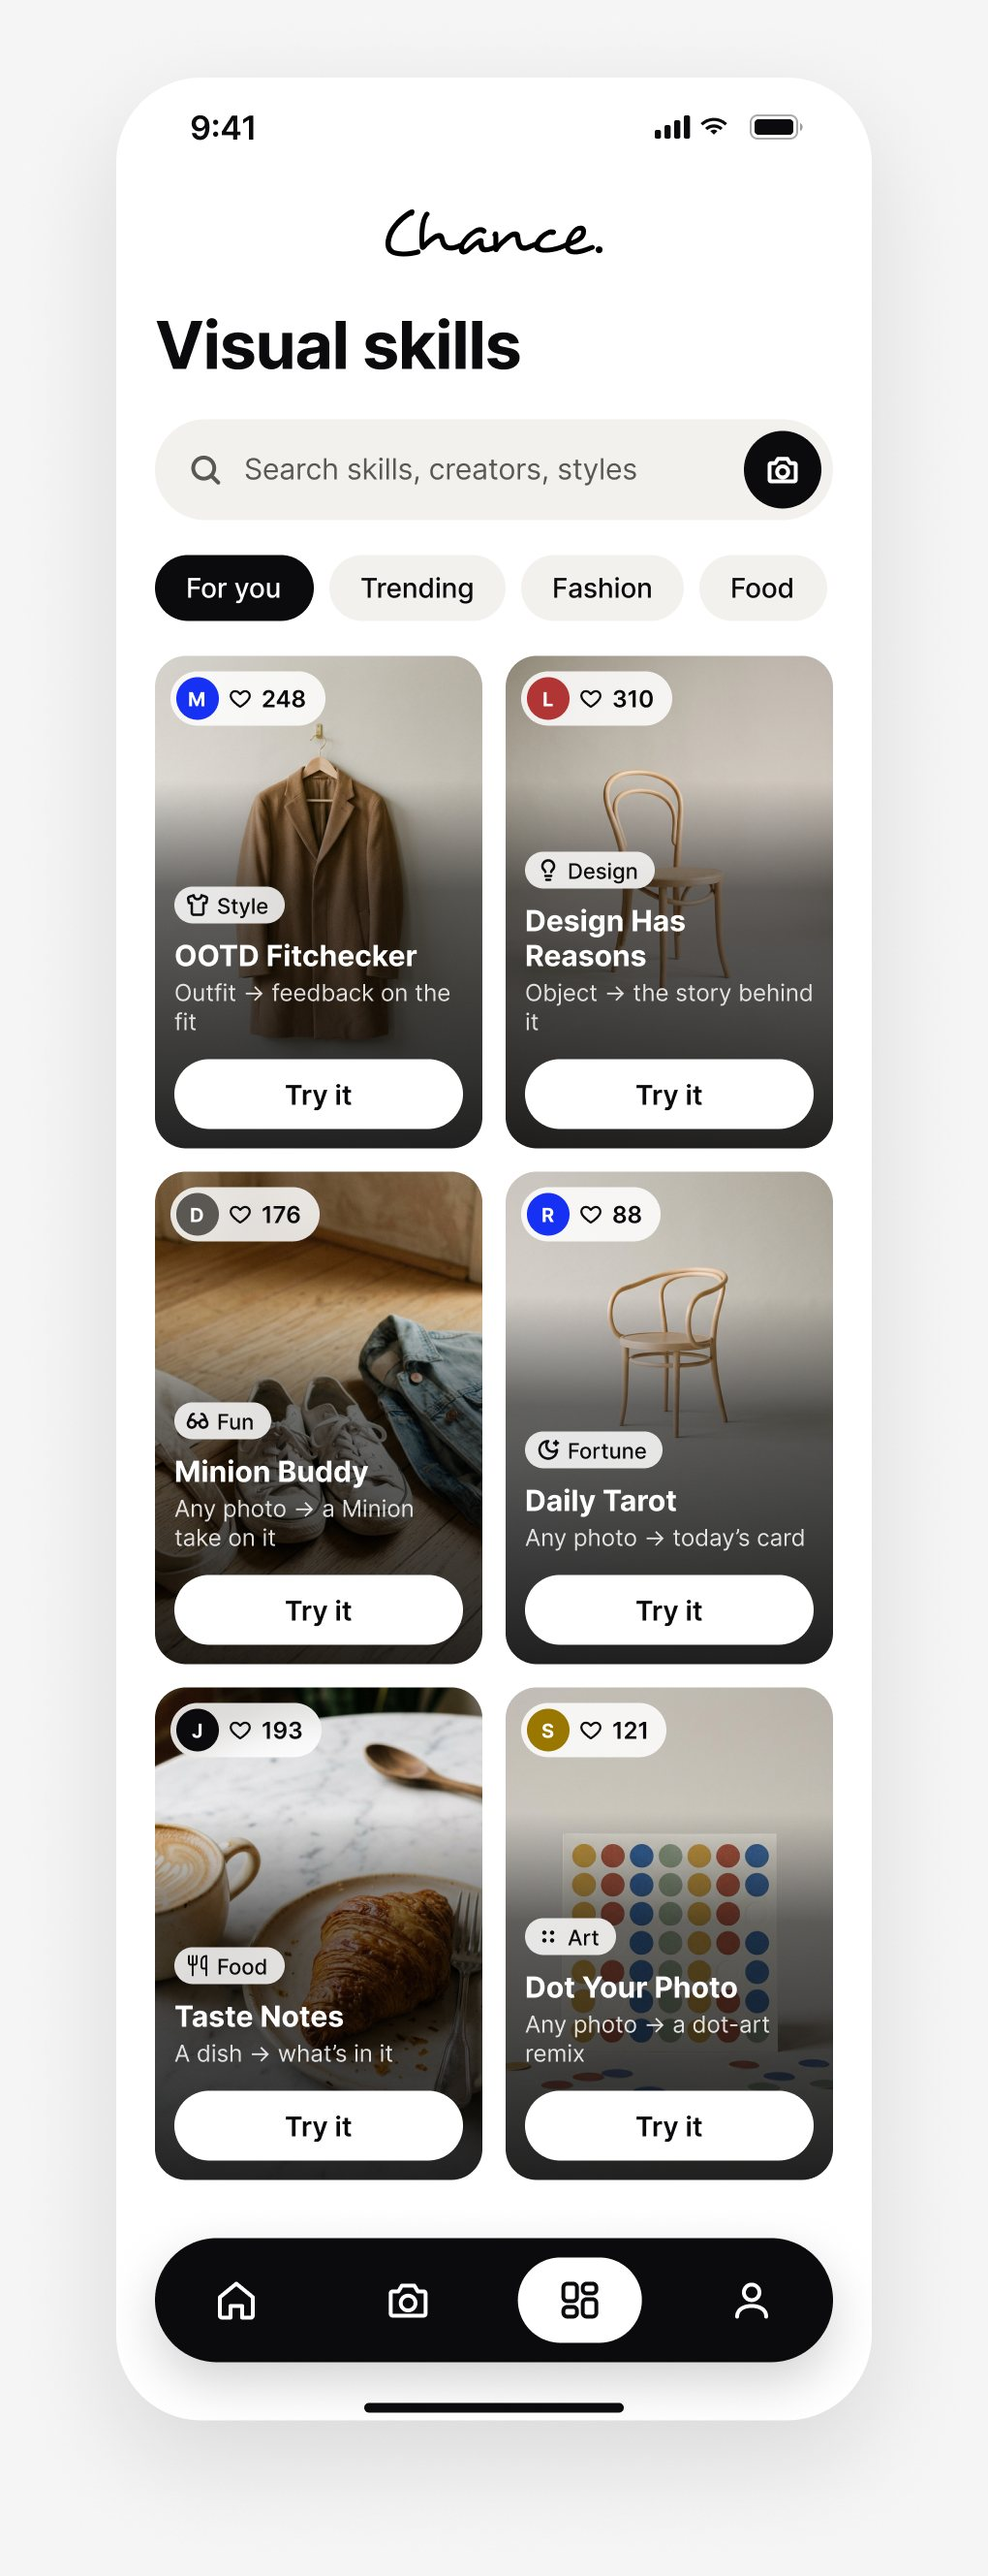
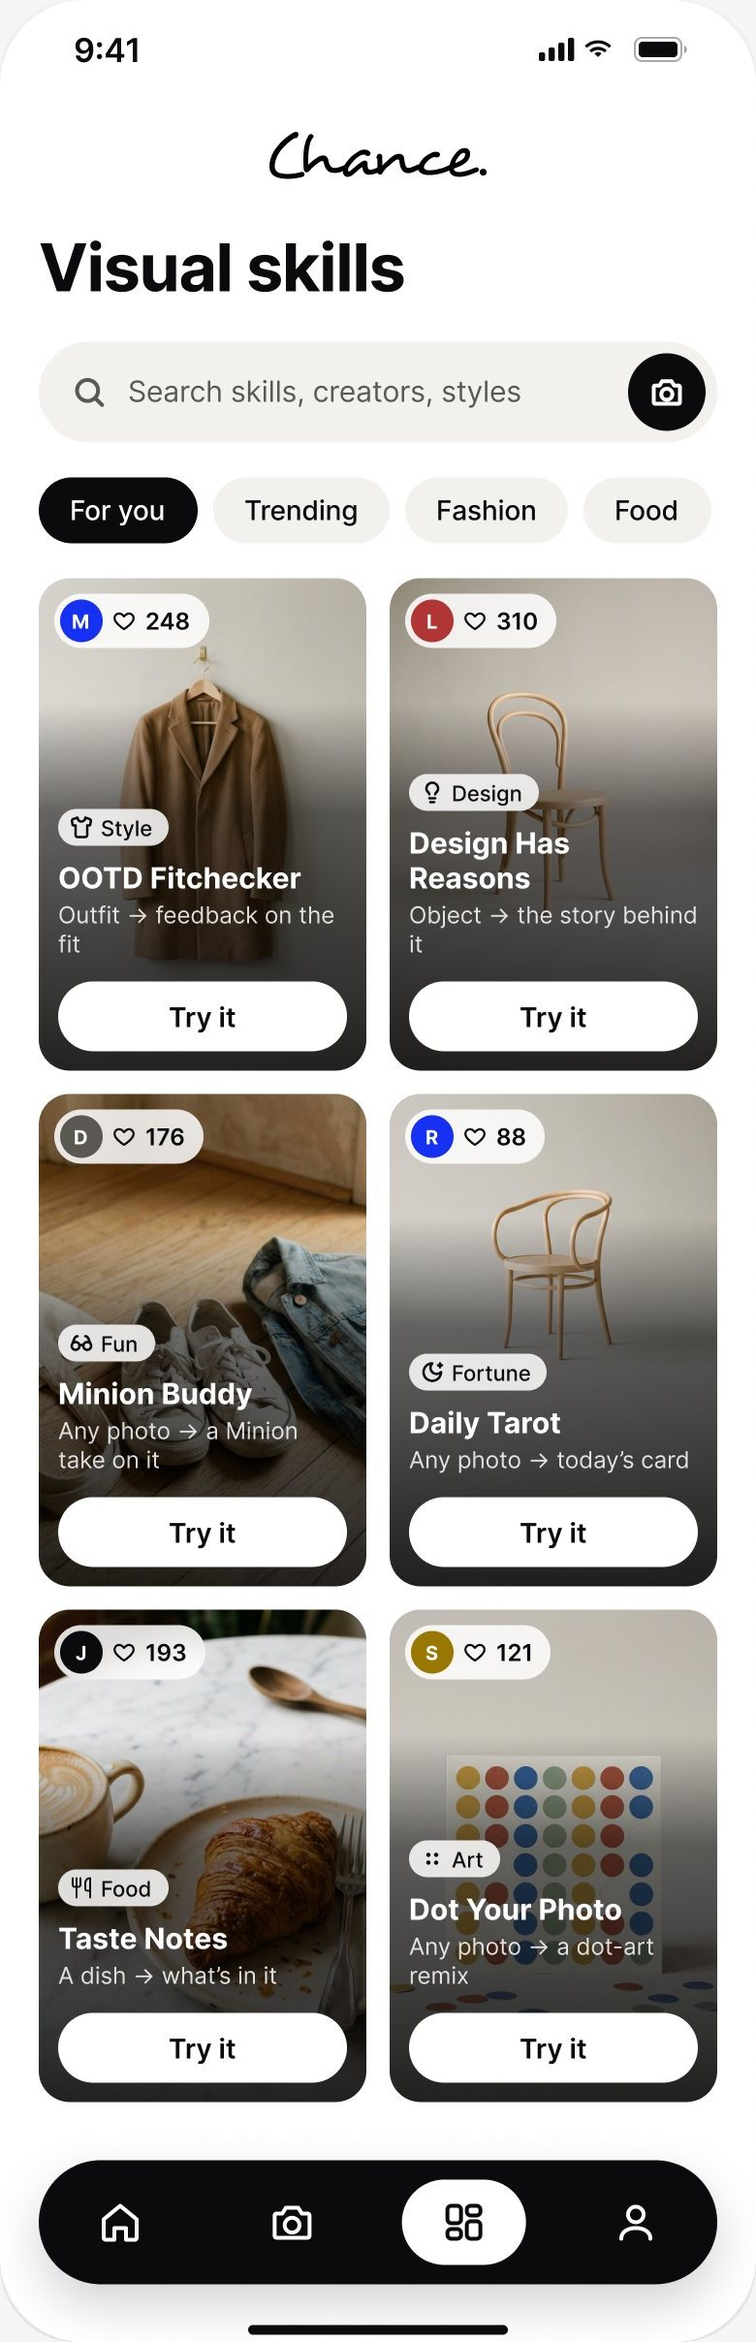
Chance case Ch.3: card iterations, topic placements and dropped ideas as side-by-side columns with notes; fix stretched Nov 4 screen; tighten copy

diff --git a/index.html b/index.html
@@ -980,7 +980,7 @@
   .flowmap.plain .flow-row{ justify-content:safe center; gap:18px; }
   /* centred screen pairs, spaced like the flows */
   .case-fig.centered{ max-width:none; }
-  .case-fig.centered .fig-grid{ display:flex; justify-content:center; flex-wrap:wrap; gap:40px; }
+  .case-fig.centered .fig-grid{ display:flex; justify-content:center; align-items:flex-start; flex-wrap:wrap; gap:40px; }
   .case-fig.centered .fig-grid img{ width:min(280px, 42vw); height:auto; }
   .case-fig.centered figcaption{ text-align:center; }
   .flowmap.plain .flow-stage-label{ text-align:center; }
@@ -1245,6 +1245,14 @@
   .case-list .cl-label{ display:block; font-size:11px; letter-spacing:.08em; text-transform:uppercase; color:var(--text-muted); margin-bottom:4px; }
   .case-list .cl-row + .cl-row .cl-label{ display:none; }
   @media(max-width:699px){ .case-list .cl-row + .cl-row .cl-label{ display:block; } .case-list .cl-head .cl-label{ display:none; } }
+  /* a row of single cards, one column each, with the note under its own card */
+  .screens4.cards .s4-grid{ gap:24px 16px; }
+  @media(min-width:860px){ .screens4.cards .s4-grid{ grid-template-columns:repeat(var(--s4-cols, 4), minmax(0,1fr)); } }
+  .screens4.cards img{ aspect-ratio:auto; object-fit:contain; border-radius:0; box-shadow:none; }
+  .screens4.cards i{ display:block; margin-top:10px; font-style:normal; font-size:11.5px; font-weight:600; letter-spacing:.06em; text-transform:uppercase; color:var(--nav-accent, var(--accent)); }
+  .screens4.cards b{ margin-top:2px; font-size:14px; line-height:1.3; }
+  .screens4.cards span{ font-size:13px; }
+  .screens4.cards .pick-on b::after{ content:' ✓'; color:var(--nav-accent, var(--accent)); }
   .case-list p{ margin:0; font-size:15px; line-height:1.55; color:var(--text-muted); }
   .case-list .cl-head p{ color:var(--text); font-weight:600; }
   /* a light flow without boxes: screens, plain labels and arrows on the page itself */
@@ -1273,8 +1281,6 @@
   .pm-options{ display:flex; flex-wrap:wrap; justify-content:center; gap:8px; margin-top:18px; }
   .pm-opt{
     font:inherit; font-size:14px; font-weight:500; padding:9px 16px; border-radius:999px; border:0; cursor:pointer;
-  /* single cards instead of phone screens: show the whole card, no frame */
-  .flowmap.cards .flow-node img{ aspect-ratio:auto; object-fit:contain; box-shadow:none; border-radius:0; background:none; }
     color:var(--text); background:color-mix(in srgb, var(--nav-accent, var(--accent)) 10%, #ffffff);
     transition:background .2s ease, color .2s ease;
   }
@@ -1792,7 +1798,7 @@
           ]},
           {wide:true, center:true, media:[{src:'images/chance/skills-hifi-v2.jpg', alt:'Visual skills hi-fi v2: the community board renamed Visual skills'}], cols:3, caption:'Visual skills · Hi-fi (Branched) v2'},
           {sub:'Third iteration: the skill card', minor:true},
-          'Meanwhile, the client\'s in-house team shared a Visual skills screen of their own (Nov 4): a clean two-column grid of skill cards, each with a stock-style product photo, a title, a one-line description and a Try it button. The grid was easy to scan, but nothing on it said who made a skill or whether anyone used it. It read like a catalog of tools, not a community.',
+          'The Nov 4 version of the screen switched to a clean two-column grid of skill cards, each with a stock-style product photo, a title, a one-line description and a Try it button. The grid was easy to scan, but nothing on it said who made a skill or whether anyone used it. It read like a catalog of tools, not a community.',
           {wide:true, center:true, media:[{src:'images/chance/skills-nov4.jpg', alt:'Visual skills, Nov 4: a back button and title, topic chips, and a two-column grid of skill cards with product photos, titles, descriptions and Try it buttons'}], cols:3, caption:'Visual skills · Nov 4, the starting point for the card'},
           'So I kept the top of our Branched v2 screen (the Chance logo, search bar and topic chips), took the grid from the Nov 4 screen, and focused the next round on one thing: the skill card. I had three goals for it:',
           {bullets:[
@@ -1803,47 +1809,44 @@
           {hmw:'How might we make the Visual skills page feel like a living community gallery rather than a catalog of tools?', label:'How might we · Visual skills'},
           {hmw:'How might we help users quickly decide which visual skill to try by showing what real people have made with it?', label:'How might we · The skill card'},
           {sub:'Skill card iterations', minor:true},
-          {flow:{plain:true, cards:true, stages:[
-            {label:'Skill card · five rounds', nodes:[
-              {img:'images/chance/card-it1.jpg', title:'Real snap, creator chip', tag:'v1'},
-              {img:'images/chance/card-it2.jpg', title:'Title bubble, topic icon', tag:'v2'},
-              {img:'images/chance/card-it3.jpg', title:'Full bleed, illustrations', tag:'v3'},
-              {img:'images/chance/card-it4.jpg', title:'Snaps back, avatar only', tag:'v4'},
-              {img:'images/chance/card-it5.jpg', title:'Dark fade, wide Try it', tag:'v5', hub:true}
-            ]}
-          ]}, caption:'From catalog card to community card · tap any card to enlarge'},
-          {bullets:[
-            '<strong>v1.</strong> Replaced the stock photo with the snap a real user took, and put the creator\'s handle on the card. The title and description sat on a translucent layer over the image.',
-            '<strong>v2.</strong> The title and description blurred together, so the title got its own glass bubble. I also added a likes count and a topic icon in the top right.',
-            '<strong>v3.</strong> Removed the border and margin so the image fills the card, merged the title and description panels, and kept only the creator\'s photo. I also tried flat illustrations instead of snaps.',
-            '<strong>v4.</strong> The illustrations lost what made the card social, a real person\'s photo, so the snaps came back. The avatar lost its glass, and the likes moved to the left.',
-            '<strong>v5.</strong> Swapped the white glass for a dark fade at the bottom with white text, and stretched Try it across the card.'
-          ]},
+          {screens:[
+            {src:'images/chance/card-it1.jpg', tag:'v1', title:'Real snap, creator chip', d:'Swapped the stock photo for a real user\'s snap and put the creator\'s handle on the card. Title and description sit on a translucent layer.', alt:'Skill card v1: a coat photo with a creator handle chip and a translucent text layer'},
+            {src:'images/chance/card-it2.jpg', tag:'v2', title:'Title bubble, topic icon', d:'Title and description blurred together, so the title got its own glass bubble. Added likes and a topic icon.', alt:'Skill card v2: the title in its own glass bubble, likes count and a topic icon top right'},
+            {src:'images/chance/card-it3.jpg', tag:'v3', title:'Full bleed, illustrations', d:'Removed the border and margin, merged the panels and kept only the creator\'s photo. Tried flat illustrations.', alt:'Skill card v3: a flat illustration of a coat filling the card, with one glass panel'},
+            {src:'images/chance/card-it4.jpg', tag:'v4', title:'Snaps back, avatar only', d:'Illustrations lost the real person behind the card, so the snaps came back. Avatar without glass, likes on the left.', alt:'Skill card v4: the coat photo again, a bare avatar and likes above the glass panel'},
+            {src:'images/chance/card-it5.jpg', tag:'v5', title:'Dark fade, wide Try it', d:'Swapped the white glass for a dark fade with white text, and stretched Try it across the card.', alt:'Skill card v5: white text on a dark fade and a full-width Try it button'},
+            {src:'images/chance/card-b-scrim.jpg', tag:'Final', title:'Labeled topic chip', d:'v5 with the topic as a labeled chip above the title (placement B below).', alt:'Final skill card: avatar and likes pill on top, a labeled Style chip, white title and full-width Try it on a dark fade', pick:true}
+          ], cards:true, caption:'From catalog card to community card, five rounds and the final card · tap any card to enlarge'},
           {sub:'Where should the topic icon go?', minor:true},
           'The topic icon helps people recognize what kind of skill they\'re looking at, but every spot I tried competed with something else on the card. I laid out five placements side by side:',
-          {wide:true, media:[{src:'images/chance/card-topic-placement.jpg', alt:'Five versions of the same skill card: A, topic icon top right; B, a labeled chip above the title; C, the icon inline before the title; D, the icon next to the likes count; E, a small badge on the creator\'s avatar'}], caption:'Five places for the topic icon'},
-          {table:{head:['Placement', 'Evaluation'], rows:[
-            ['A · Top right (current)', 'The icon alone feels alienating; it doesn\'t say what it means.'],
-            ['B · Labeled chip in the panel', '<strong>Best option.</strong> The label next to the icon makes it easy to identify.'],
-            ['C · Inline with the title', 'Another good option, but the icon doesn\'t blend in with the title text.'],
-            ['D · Next to likes', 'The icon stands awkwardly in the middle of the card and covers the image.'],
-            ['E · Badge on the avatar', 'There\'s no real link between the creator\'s profile and the topic.']
-          ]}, wide:true, caption:'B won: a label turns an unfamiliar icon into something people recognize'},
+          {screens:[
+            {src:'images/chance/card-topic-a.jpg', tag:'A', title:'Top right (current)', d:'The icon alone feels alienating; it doesn\'t say what it means.', alt:'Placement A: topic icon alone in the top right corner'},
+            {src:'images/chance/card-topic-b.jpg', tag:'B', title:'Labeled chip in the panel', d:'Best option. The label next to the icon makes it easy to identify.', alt:'Placement B: a Style chip with icon and label above the title', pick:true},
+            {src:'images/chance/card-topic-c.jpg', tag:'C', title:'Inline with the title', d:'Another good option, but the icon doesn\'t blend in with the title text.', alt:'Placement C: the icon placed before the title text'},
+            {src:'images/chance/card-topic-d.jpg', tag:'D', title:'Next to likes', d:'The icon stands awkwardly in the middle of the card and covers the image.', alt:'Placement D: the icon beside the likes count above the panel'},
+            {src:'images/chance/card-topic-e.jpg', tag:'E', title:'Badge on the avatar', d:'There\'s no real link between the creator\'s profile and the topic.', alt:'Placement E: a small topic badge on the creator\'s avatar'}
+          ], cards:true, caption:'Five places for the topic icon · B won: a label turns an unfamiliar icon into something people recognize'},
           {sub:'Ideas I tried and dropped', minor:true},
-          'Before settling on the card, I tested three more ideas: a preview of the skill\'s result (a one-line answer for skills that analyze a photo, a thumbnail for skills that make a new image), a small camera button instead of Try it, and limiting the title and description to one line each.',
-          {wide:true, media:[{src:'images/chance/card-explorations.jpg', alt:'Six skill card variants: a text result bubble, an image result thumbnail, a small camera button instead of Try it, one-line text, and two versions combining all three'}], caption:'Result preview, quieter action and one-line text, tried and dropped'},
+          'Before settling on the card, I tested three more ideas, alone and combined:',
+          {screens:[
+            {src:'images/chance/card-idea-1a.jpg', tag:'1a', title:'Result: analysis', d:'For skills that only read the photo, a one-line answer from the skill.', alt:'A result bubble reading Fit 8/10, swap in white loafers, over the coat photo'},
+            {src:'images/chance/card-idea-1b.jpg', tag:'1b', title:'Result: image', d:'For skills that make a new image, a thumbnail of the output.', alt:'A small output thumbnail in the top right of the Dot Your Photo card'},
+            {src:'images/chance/card-idea-2.jpg', tag:'2', title:'Quieter action', d:'The whole card is tappable; a camera button replaces Try it.', alt:'A round camera button in place of the Try it button'},
+            {src:'images/chance/card-idea-3.jpg', tag:'3', title:'One-line text', d:'Title and description cut to one line each, so rows line up.', alt:'Design Has Reasons with its title and description cut to one line'},
+            {src:'images/chance/card-idea-all-a.jpg', tag:'1a + 2 + 3', title:'All, analysis skill', d:'Result bubble, camera button and one-line text together.', alt:'Design Has Reasons with a result bubble, camera button and one-line text'},
+            {src:'images/chance/card-idea-all-i.jpg', tag:'1b + 2 + 3', title:'All, image skill', d:'Output thumbnail, camera button and one-line text together.', alt:'Minion Buddy with an output thumbnail, camera button and one-line text'}
+          ], cards:true, caption:'Result preview, quieter action and one-line text, tried and dropped'},
           'I dropped them for the same two reasons. Each one added more than people could read at a glance. And the extra text and images covered the snapshot, which is the main way people understand what a skill was used for.',
           {sub:'The final card: glass or dark fade?', minor:true},
           'That left two versions of the same card, both with placement B: one on the v4 glass panel and one on the v5 dark fade. They share the same content; only the way the text sits on the photo changes.',
           {wide:true, center:true, media:[{src:'images/chance/card-b-glass.jpg', alt:'Skill card, B glass: a translucent white panel holds the topic chip, title, description and a small Try it button, with likes above it and the avatar alone at the top'}, {src:'images/chance/card-b-scrim.jpg', alt:'Skill card, B dark fade: the photo darkens toward the bottom, white text sits on it, the avatar and likes share one pill at the top, and Try it spans the card'}], cols:3, caption:'Skill card · Snap v6 · B glass (left) and B · dark fade (right)'},
-          'I chose the dark fade. Measured against common UX principles, it did better in almost every case:',
+          'I chose the dark fade. Measured against five UX principles, it came out ahead on each:',
           {table:{head:['Principle', 'B · glass', 'B · dark fade (chosen)'], rows:[
             ['Aesthetic and minimalist design', 'A solid panel and a separate likes bubble cover about half of the snap.', 'Text sits straight on the photo, so more of the snap stays visible.'],
             ['Contrast and accessibility', 'Light glass over light photos blends in, so the panel loses its edge.', 'White text on the fade stays readable over any photo.'],
-            ['Fitts\'s law', 'Try it is a small pill in the corner of the panel.', 'Try it spans the card at 36px tall, matching the goal of easier access.'],
+            ['Fitts\'s law', 'Try it is a small pill in the corner of the panel.', 'Try it spans the card at 36px tall, meeting the third goal: easier access.'],
             ['Proximity', 'The avatar sits at the top while the likes sit at the bottom.', 'The avatar and likes share one pill: who made it and how popular it is, read together.'],
-            ['Visual hierarchy', 'Title and description share one panel and look alike.', 'A bold white title over a dimmer description, so the difference shows without an extra bubble.'],
-            ['Jakob\'s law', 'A glass panel on a photo is less familiar on mobile.', 'Text on a dark fade is a pattern people already know from Pinterest and the App Store.']
+            ['Visual hierarchy', 'Title and description share one panel and look alike.', 'A bold white title over a dimmer description, so the difference shows without an extra bubble.']
           ]}, wide:true, caption:'Why the dark fade won'},
           'The trade-off is that the fade makes the photos a little moodier. I accepted that, since the snap stays the main thing on the card.',
           {sub:'Final screen', minor:true},
@@ -2274,8 +2277,9 @@
           t.carousel.map(function(m, i){ return '<button type="button" class="cr-dot'+(i ? '' : ' on')+'" data-i="'+i+'" data-cap="'+(m.cap || '')+'" aria-label="Show '+(m.cap || 'screen '+(i+1))+'"></button>'; }).join('') +
           '</span></div>' + (t.caption ? '<figcaption>'+t.caption+'</figcaption>' : '') + '</figure>';
       // product screens in a row of four columns
-      if(t.screens) return '<figure class="case-fig screens4"><div class="s4-grid">' + t.screens.map(function(m){
-          return '<div class="s4-item"><img src="'+m.src+'" alt="'+m.alt+'" loading="lazy"><b>'+m.title+'</b>'+(m.d ? '<span>'+m.d+'</span>' : '')+'</div>';
+      // with cards:true, single cards in one row, each with its own note underneath
+      if(t.screens) return '<figure class="case-fig screens4'+(t.cards ? ' cards' : '')+'"><div class="s4-grid"'+(t.cards ? ' style="--s4-cols:'+t.screens.length+'"' : '')+'>' + t.screens.map(function(m){
+          return '<div class="s4-item'+(m.pick ? ' pick-on' : '')+'"><img src="'+m.src+'" alt="'+m.alt+'" loading="lazy">'+(m.tag ? '<i>'+m.tag+'</i>' : '')+'<b>'+m.title+'</b>'+(m.d ? '<span>'+m.d+'</span>' : '')+'</div>';
         }).join('') + '</div>' + (t.caption ? '<figcaption>'+t.caption+'</figcaption>' : '') + '</figure>';
       // before / after: drag the handle to wipe between two screens
       if(t.compare) return '<figure class="case-fig compare-fig"><div class="cmp" data-compare style="--pos:50%"><img src="'+t.compare.before+'" alt="'+t.compare.alt+'" loading="lazy"><div class="cmp-after"><img src="'+t.compare.after+'" alt="" loading="lazy"></div>' +
@@ -2391,7 +2395,7 @@
         if(f.stages[i + 1] && f.stages[i + 1].beside){ html += '<div class="flow-pair">' + stageHtml(f.stages[i]) + stageHtml(f.stages[i + 1]) + '</div>'; i++; }
         else html += stageHtml(f.stages[i]);
       }
-      return '<figure class="case-fig flowmap'+(f.plain ? ' plain' : '')+(f.cards ? ' cards' : '')+'"><div class="flow-panel">' + html +
+      return '<figure class="case-fig flowmap'+(f.plain ? ' plain' : '')+'"><div class="flow-panel">' + html +
         (f.full ? '<button type="button" class="flow-full" data-lightbox="'+f.full+'">See my detailed flow diagram ↗</button>' : '') +
         '</div>' + (t.caption ? '<figcaption>'+t.caption+'</figcaption>' : '') + '</figure>';
     }
